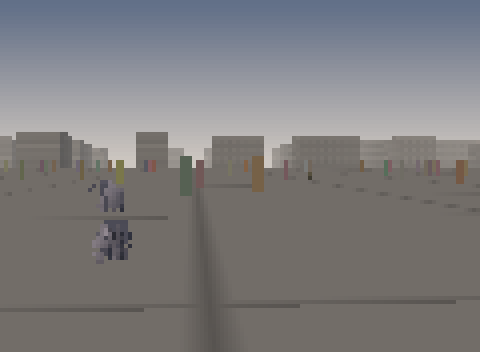
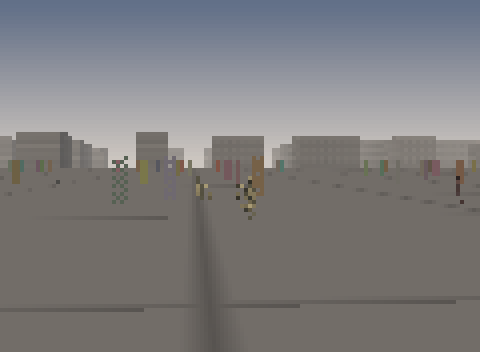
Regenerate the terminal capture instead of screenshotting it
docs/demo/ashfall-play.png was the last artefact in the repository that no command could reproduce: it
came from a pty, through an ANSI parser, at whatever size the pty happened to report. It is now
produced by demo/examples/frame_capture.rs, which builds the same crowd, takes the client's own
Session and Budget, and renders the frame at 120 x 44 cells - the client's exact geometry, minus the
status line. Two runs of the documented command are byte-identical, which is the whole point.

It also carries the impostor cross-fade, which the old capture predated: --band 8 is the eight-metre
window this repository ships, --band 0 is the hard switch it replaced, and the two differ by 1,152
pixels in this frame. That difference is how the band was confirmed active rather than merely
configured, and it is recorded in the caption rather than left as a claim.

Image::scaled is the one library addition: a nearest-neighbour integer upscale, so a 120 x 88
framebuffer becomes a 480 x 352 picture where a block is the pixel it came from. It has a test that
would catch a misaligned block, because a gradient has a different colour on every row.

Two claims beside the caption were false and are corrected. The impostor switch is not "hard" any
more - it is hard by default and soft when Shot::impostor_band widens it. And the note about
bevy-archie said this machine has no display server, no libvulkan and no libxkbcommon; all three
[…]

diff --git a/demo/examples/frame_capture.rs b/demo/examples/frame_capture.rs
@@ -1,0 +1,196 @@
+//! Capture one interactive frame as a PNG, the way the terminal client draws it.
+//!
+//! The interactive front end paints one framebuffer pixel per half cell, so a terminal of `cols` by
+//! `rows` cells shows `cols` by `rows * 2` pixels. That is the right size on a terminal and far too
+//! small in a document, so this example renders the same frame through the same [`Session`] — with
+//! the same budget, and therefore the same level-of-detail switch and cross-fade — and blows each
+//! pixel up into a 4 by 4 block. `docs/demo/ashfall-play.png` is what a 120 by 44 capture of that
+//! looks like, and this is how to make another one:
+//!
+//! ```text
+//! cargo run --release --manifest-path demo/Cargo.toml --example frame_capture -- \
+//!     --columns 120 --rows 44 --view street --out docs/demo/ashfall-play.png
+//! ```
+//!
+//! `--band 0` renders the same frame with the level-of-detail switch and no cross-fade, which is the
+//! comparison that shows the band is doing something rather than being configured and ignored.
+
+use bevy_flock_demo::DemoError;
+use bevy_flock_demo::app::Playground;
+use bevy_flock_demo::render3d;
+use bevy_flock_demo::session::Session;
+use bevy_flock_demo::skinned;
+use std::path::PathBuf;
+
+/// Pixels per framebuffer pixel in the written image.
+///
+/// Four is chosen to match the height of a terminal half cell at the sizes the book uses: a cell is
+/// four pixels wide and eight tall, which is what a monospace glyph looks like.
+const BLOCK: u32 = 4;
+
+/// Walkers in the procession, the same count the client draws.
+const WALKERS: usize = 14;
+
+/// What the command line asked for.
+struct Options {
+    /// Terminal cells across, which is also the framebuffer width.
+    columns: u32,
+    /// Terminal cells down, which is also the frame height in cells. The client's status line is
+    /// chrome and is not part of a capture, so it is not subtracted here.
+    rows: u32,
+    /// Which shipped view to start on, by name.
+    view: String,
+    /// Cross-fade band in metres; zero is the hard switch.
+    band: f32,
+    /// Where to write the PNG.
+    out: PathBuf,
+    /// Crowd size.
+    population: u32,
+    /// Simulation seed.
+    seed: u64,
+    /// Ticks to run before the frame is taken.
+    ticks: u64,
+}
+
+impl Default for Options {
+    fn default() -> Self {
+        Self {
+            columns: 120,
+            rows: 44,
+            view: "street".to_owned(),
+            band: 8.0,
+            out: PathBuf::from("frame.png"),
+            population: 2_000,
+            seed: 7,
+            ticks: 600,
+        }
+    }
+}
+
+fn main() -> Result<(), DemoError> {
+    let Some(options) = parse_arguments(std::env::args().skip(1))? else {
+        return Ok(());
+    };
+    capture(&options)
+}
+
+/// Build the crowd, render one frame the way the client would, and write it out.
+fn capture(options: &Options) -> Result<(), DemoError> {
+    let mut playground = Playground::new(options.seed, options.population, 900.0)?;
+    let _spawn_ticks = playground.drain_spawn();
+    playground.place_crowd();
+    playground.tick(options.ticks);
+    let bodies = playground.bodies();
+    let scene = bevy_flock_demo::scene::Scene::build(&playground.city, &bodies);
+    let meshes = render3d::Meshes::load()?;
+    let shots = render3d::shots(&playground.city, &bodies);
+    if shots.is_empty() {
+        return Err(DemoError::Config("the city framed no views".to_owned()));
+    }
+    let index = shots
+        .iter()
+        .position(|shot| shot.name == options.view)
+        .ok_or_else(|| {
+            DemoError::Config(format!(
+                "`{}` is not a view; the views are district, street, procession, hero, skyline",
+                options.view
+            ))
+        })?;
+    let session = Session::new(&shots, index);
+    let mut shot = session
+        .shot(&shots)
+        .ok_or_else(|| DemoError::Config("the chosen view has no shot".to_owned()))?;
+    shot.impostor_band = options.band.max(0.0);
+    // One pixel per half cell: a cell is drawn with the upper half block, so it carries two pixels.
+    let width = options.columns.max(16);
+    let height = options.rows.max(8) * 2;
+    // The client draws the animated column *and* the crowd; a capture without it would be a picture
+    // of a different scene than the one the text describes.
+    let rig = skinned::Rig::load(&bevy_flock_demo::assets::root().join("anim/kaykit-walker.glb"))?;
+    let centre = render3d::settlement_centre(&playground.city);
+    let column = render3d::procession(centre, &rig, "Walking_B", WALKERS);
+    let (image, stats) = render3d::render_with(
+        &scene,
+        &meshes,
+        &[(&rig, "Walking_B", column.as_slice())],
+        &shot,
+        width,
+        height,
+    );
+    let scaled = image.scaled(BLOCK);
+    if let Some(parent) = options.out.parent()
+        && !parent.as_os_str().is_empty()
+    {
+        std::fs::create_dir_all(parent).map_err(|error| DemoError::Io {
+            path: parent.display().to_string(),
+            reason: error.to_string(),
+        })?;
+    }
+    std::fs::write(&options.out, scaled.to_png()).map_err(|error| DemoError::Io {
+        path: options.out.display().to_string(),
+        reason: error.to_string(),
+    })?;
+    println!(
+        "capture  {} x {} cells -> {} x {} px · view {} · band {:.1} m · {} bodies, {} triangles · {}",
+        options.columns,
+        options.rows,
+        scaled.width,
+        scaled.height,
+        shot.name,
+        shot.impostor_band,
+        stats.bodies,
+        stats.triangles,
+        options.out.display()
+    );
+    Ok(())
+}
+
+/// Read the flags, or answer `--help` with `None`.
+fn parse_arguments(arguments: impl Iterator<Item = String>) -> Result<Option<Options>, DemoError> {
+    let mut options = Options::default();
+    let mut arguments = arguments;
+    while let Some(argument) = arguments.next() {
+        let mut value = || {
+            arguments
+                .next()
+                .ok_or_else(|| DemoError::Config(format!("{argument} needs a value")))
+        };
+        match argument.as_str() {
+            "--columns" | "--cols" => options.columns = parse_number(&value()?)?,
+            "--rows" => options.rows = parse_number(&value()?)?,
+            "--view" => options.view = value()?,
+            "--band" => options.band = parse_number(&value()?)?,
+            "--out" => options.out = PathBuf::from(value()?),
+            "--population" => options.population = parse_number(&value()?)?,
+            "--seed" => options.seed = parse_number(&value()?)?,
+            "--ticks" => options.ticks = parse_number(&value()?)?,
+            "--help" | "-h" => {
+                println!(
+                    "frame_capture: one interactive frame as a PNG\n\
+                     \n\
+                     --columns N     terminal cells across (default 120)\n\
+                     --rows N        terminal cells down (default 44)\n\
+                     --view NAME     district, street, procession, hero or skyline (default street)\n\
+                     --band METRES   impostor cross-fade band (default 8, 0 is the hard switch)\n\
+                     --out PATH      where to write the PNG (default frame.png)\n\
+                     --population N  crowd size (default 2000)\n\
+                     --seed N        simulation seed (default 7)\n\
+                     --ticks N       ticks before the frame (default 600)"
+                );
+                return Ok(None);
+            }
+            other => {
+                return Err(DemoError::Config(format!(
+                    "`{other}` is not a flag; try --help"
+                )));
+            }
+        }
+    }
+    Ok(Some(options))
+}
+
+/// Parse a number, naming the flag that failed.
+fn parse_number<T: std::str::FromStr>(text: &str) -> Result<T, DemoError> {
+    text.parse::<T>()
+        .map_err(|_| DemoError::Config(format!("`{text}` is not a number")))
+}

diff --git a/demo/src/raster.rs b/demo/src/raster.rs
@@ -144,6 +144,38 @@ impl Image {
         drawn as f32 / self.depth.len().max(1) as f32
     }
 
+    /// A nearest-neighbour integer upscale, with the depth buffer reset to the far plane.
+    ///
+    /// The terminal client draws one pixel per half cell, which is unreadably small anywhere but a
+    /// terminal: an integer factor turns that framebuffer into a faithful screenshot at a size a
+    /// document can show. Nearest-neighbour is the point — a block is the pixel it came from, so
+    /// there is no resampling to argue about. The depth buffer is not scaled, because the result is
+    /// a picture and never a render target.
+    #[must_use]
+    pub fn scaled(&self, factor: u32) -> Self {
+        let factor = factor.max(1);
+        if factor == 1 {
+            return Self {
+                width: self.width,
+                height: self.height,
+                colour: self.colour.clone(),
+                depth: self.depth.clone(),
+            };
+        }
+        let width = self.width.saturating_mul(factor);
+        let height = self.height.saturating_mul(factor);
+        let source = self;
+        let colour: Vec<[u8; 3]> = (0..height)
+            .flat_map(|y| (0..width).map(move |x| source.pixel(x / factor, y / factor)))
+            .collect();
+        Self {
+            width,
+            height,
+            colour,
+            depth: vec![1.0; (width as usize) * (height as usize)],
+        }
+    }
+
     fn plot(&mut self, x: usize, y: usize, depth: f32, colour: [u8; 3]) {
         let index = y * (self.width as usize) + x;
         let Some(slot) = self.depth.get_mut(index) else {
@@ -1037,6 +1069,32 @@ pub fn json_colour(value: Option<&jsonr::Value>, fallback: [f32; 3]) -> [f32; 3]
 mod tests {
     use super::*;
     use bevy_flock::testkit::OrDie;
+
+    #[test]
+    fn an_integer_upscale_repeats_each_pixel_into_its_own_block() {
+        // A gradient has a different colour on every row, so a misaligned block shows up as a row
+        // that belongs to its neighbour.
+        let mut source = Image::new(3, 4);
+        source.sky_to([200.0, 40.0, 10.0], [10.0, 40.0, 200.0], 3);
+        let scaled = source.scaled(4);
+        assert_eq!((scaled.width, scaled.height), (12, 16));
+        for y in 0..4 {
+            let expected = source.pixel(0, y);
+            for scaled_y in y * 4..(y + 1) * 4 {
+                for x in 0..12 {
+                    assert_eq!(
+                        scaled.pixel(x, scaled_y),
+                        expected,
+                        "row {scaled_y} column {x} should be source row {y}"
+                    );
+                }
+            }
+        }
+        // A factor of one is the identity, including the depth buffer.
+        let same = source.scaled(1);
+        assert_eq!(same.fingerprint(), source.fingerprint());
+        assert_eq!(same.coverage(), source.coverage());
+    }
 
     /// Inflate a fixed-Huffman deflate stream, which is all the compressor emits.
     ///

diff --git a/demo/README.md b/demo/README.md
@@ -113,18 +113,24 @@ cargo run --release --manifest-path demo/Cargo.toml --bin ashfall-play -- --play
 A cell is split by `▀` into two pixels, so a 112-cell terminal shows a 112 × 40-pixel picture with
 square pixels. It is not a screenshot: it is the same rasteriser, called every frame.
 
-![The street view in a terminal](../docs/demo/ashfall-play.png)
+![The procession view in a terminal](../docs/demo/ashfall-play.png)
 
-*The street view, 120 × 88 pixels, captured from a real pty and enlarged four times without smoothing.
-The figures near the camera are meshes; the ones further off are the two-triangle impostors.
-Between sixteen and twenty-four metres a body is both, cross-faded by coverage so it dissolves
-rather than pops.*
+*The procession view: 120 × 44 cells, which is 120 × 88 framebuffer pixels, shown at 480 × 352 — four
+times, without smoothing. Regenerated from the client's own session by `examples/frame_capture.rs`
+rather than screenshotted from a pty, so it cannot rot as the terminal path changes:
+`cargo run --release --example frame_capture -- --columns 120 --rows 44 --view procession --band 8`.
+The band is on: between sixteen and twenty-four metres a body is drawn as a mesh and a two-triangle
+impostor at once, dissolving by coverage so it fades instead of popping, and `--band 0` renders the
+hard switch that differs from this frame by 1,152 pixels. At four pixels wide a dissolving body reads
+as a dotted outline, which is the honest cost of the fade at a cell count it was not designed for —
+the reason the five shipped views leave the band at zero and only the interactive client turns it on.*
 
 Two things make it fast enough to steer. The *budget* in `session::Budget` changes the shot rather
 than the world — 420 bodies, 240 m of crowd, a 0.75-pixel triangle cull — and everything past 24 m is
-drawn as two triangles instead of an 11,000-triangle mesh. The switch is hard, measured from the
-camera to the body's feet, and it lives on the shot (`Shot::impostor_distance`) rather than in the
-renderer or the session. Measured on the district view:
+drawn as two triangles instead of an 11,000-triangle mesh. The switch is measured from the camera to
+the body's feet and lives on the shot (`Shot::impostor_distance`) rather than in the renderer or the
+session; it is hard unless `Shot::impostor_band` widens it into the cross-fade described below.
+Measured on the district view:
 850 ms a frame at full detail, 19.0 ms under the budget, 38 ms in a real 112 × 88-pixel terminal
 (26 fps). The budget is a `Copy` struct, so a bigger terminal or a faster machine is four numbers, not
 a code change.
@@ -136,10 +142,14 @@ a code change.
 ffmpeg -framerate 30 -i target/demo/flight/%03d.png -pix_fmt yuv420p flight.mp4
 ```
 
-**On `bevy-archie`:** the windowed front end is the one thing here that is not wired, and the reason is
-the environment — `winit` needs a display server and this machine has none, nor `libvulkan`, nor
-`libxkbcommon`. What a windowed front end needs from this side exists and is tested: `Session` (camera,
-view, lens, budget), `Session::advance(&CameraInput, dt)`, `input::Command` and `session::Budget`.
+**On `bevy-archie`:** the windowed front end is the one thing here that is not wired, and the reason
+has changed. When this was written the machine had no display server, no `libvulkan` and no
+`libxkbcommon`; all three are present now, and the Vulkan loader resolves to `llvmpipe` — a CPU
+driver, not a card. So a window would open and run at software-renderer speed, which is why the
+second front end went the other way: `../demo-gpu/` binds `wgpu` directly and renders to a texture
+instead of a surface, which works with no window at all. What a windowed front end still needs from
+this side exists and is tested: `Session` (camera, view, lens, budget),
+`Session::advance(&CameraInput, dt)`, `input::Command` and `session::Budget`.
 See [ADR 0050](../docs/adr/0050-interactive-playground.md).
 
 ### The cross-fade band

diff --git a/CHANGELOG.md b/CHANGELOG.md
@@ -5,6 +5,13 @@ All notable changes to this project are documented here. The format follows
 adheres to [Semantic Versioning](https://semver.org/spec/v2.0.0.html).
 
 ## Unreleased
+- **The terminal capture is regenerated, not screenshotted.** `docs/demo/ashfall-play.png` is now
+  produced by `demo/examples/frame_capture.rs`, which renders through the client's own `Session` and
+  `Budget` at 120 x 44 cells and blows each framebuffer pixel up four times with the new
+  `Image::scaled` — nearest-neighbour, so a block is the pixel it came from. The capture is the
+  procession view with the impostor cross-fade active (`--band 8`, against `--band 0` for the hard
+  switch it replaced; the two differ by 1,152 pixels, which is how the band was checked), and both
+  captions now name the command that makes it, so the image cannot drift away from the code.
 
 - **A GPU front end, and a playbook for building the next one.** `demo-gpu/` renders the Ashfall
   district through an instanced `wgpu` pipeline over the same scene, meshes and `Shot` table the

diff --git a/docs/adr/0050-interactive-playground.md b/docs/adr/0050-interactive-playground.md
@@ -53,9 +53,15 @@ constraint is not a sandbox quirk, either: the same is true of CI, of a remote s
    `Session::camera()`, `Session::advance`, `Command`, and the `Budget` are the four things a windowed
    front end would consume.
 
-The result, captured from a pty at 120 × 88 pixels and enlarged without smoothing:
+The result, rendered through the client's own `Session` and `Budget` at 120 × 88 pixels and enlarged
+four times without smoothing:
 
-![The street view in a terminal](../demo/ashfall-play.png)
+![The procession view in a terminal](../demo/ashfall-play.png)
+
+It is regenerated rather than screenshotted, by `demo/examples/frame_capture.rs`: the client's frame
+minus the status line, at the size the client draws it. `--band 8` is the cross-fade this ADR records
+and `--band 0` is the hard switch it replaced; in this frame the two differ by 1,152 pixels, which is
+how the band was confirmed to be doing something instead of being configured and ignored.
 
 ## The measurement
 
